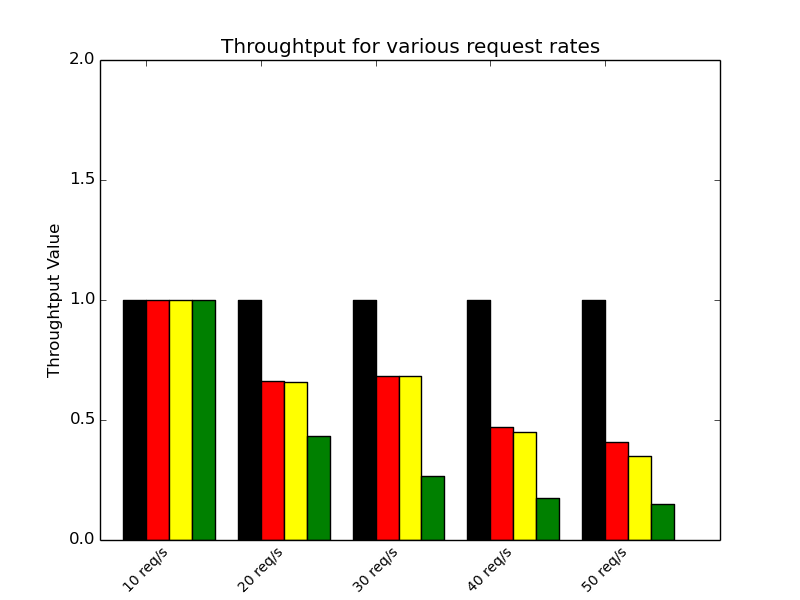
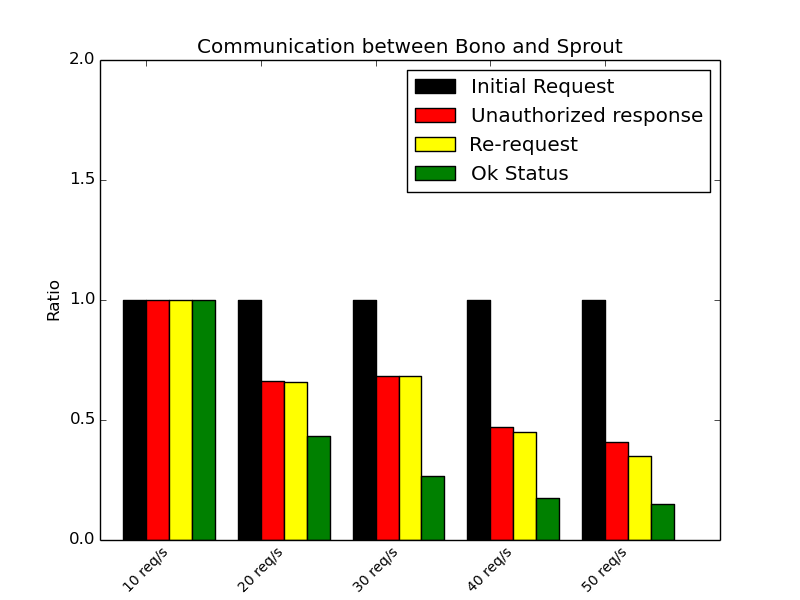
Changing plot titles and legends

Changed region(s): [[0.25, 0.06, 0.9062, 0.33], [0.0625, 0.36, 0.0938, 0.63]]

diff --git a/Version2/scripts/test.py b/Version2/scripts/test.py
@@ -314,12 +314,12 @@ def make_plot(location):
 
   # axes and labels
   ax.set_xlim(-width,len(ind)+width)
-  ax.set_ylim(0,50)
+  ax.set_ylim(0,2)
   # ax.set_ylabel('Ratio')
   # ax.set_title('Communication between Bono and Sprout')
   
-  ax.set_ylabel('Throughtput Value')
-  ax.set_title('Throughtput for various request rates')
+  ax.set_ylabel('Ratio')
+  ax.set_title('Communication between Sprout and Homestead')
   
   xTickMarks = [str(i*10)+' req/s' for i in range(1,6)]
   ax.set_xticks(ind+width)
@@ -327,7 +327,7 @@ def make_plot(location):
   plt.setp(xtickNames, rotation=45, fontsize=10)
 
   ## add a legend
-  # ax.legend( (rects1[0], rects2[0],rects3[0], rects4[0]), ('Initial Request', 'Unauthorized response', 'Re-request', 'Ok Status') )
+  ax.legend( (rects1[0], rects2[0],rects3[0], rects4[0]), ('Initial Request', 'Unauthorized response', 'Re-request', 'Ok Status') )
 
   # plt.show()
   pylab.savefig(location)
@@ -628,9 +628,9 @@ def print_maps(x):
 # main(str(sys.argv[1]),str(sys.argv[2]))
 # plot_bono()
 # plot_sprout()
-# plot_hs()
+plot_hs()
 # print_result()
 # print_timeline()
 # plot_graphs()
 # plot_throughput()
-print_maps(int(sys.argv[1]))
+# print_maps(int(sys.argv[1]))
